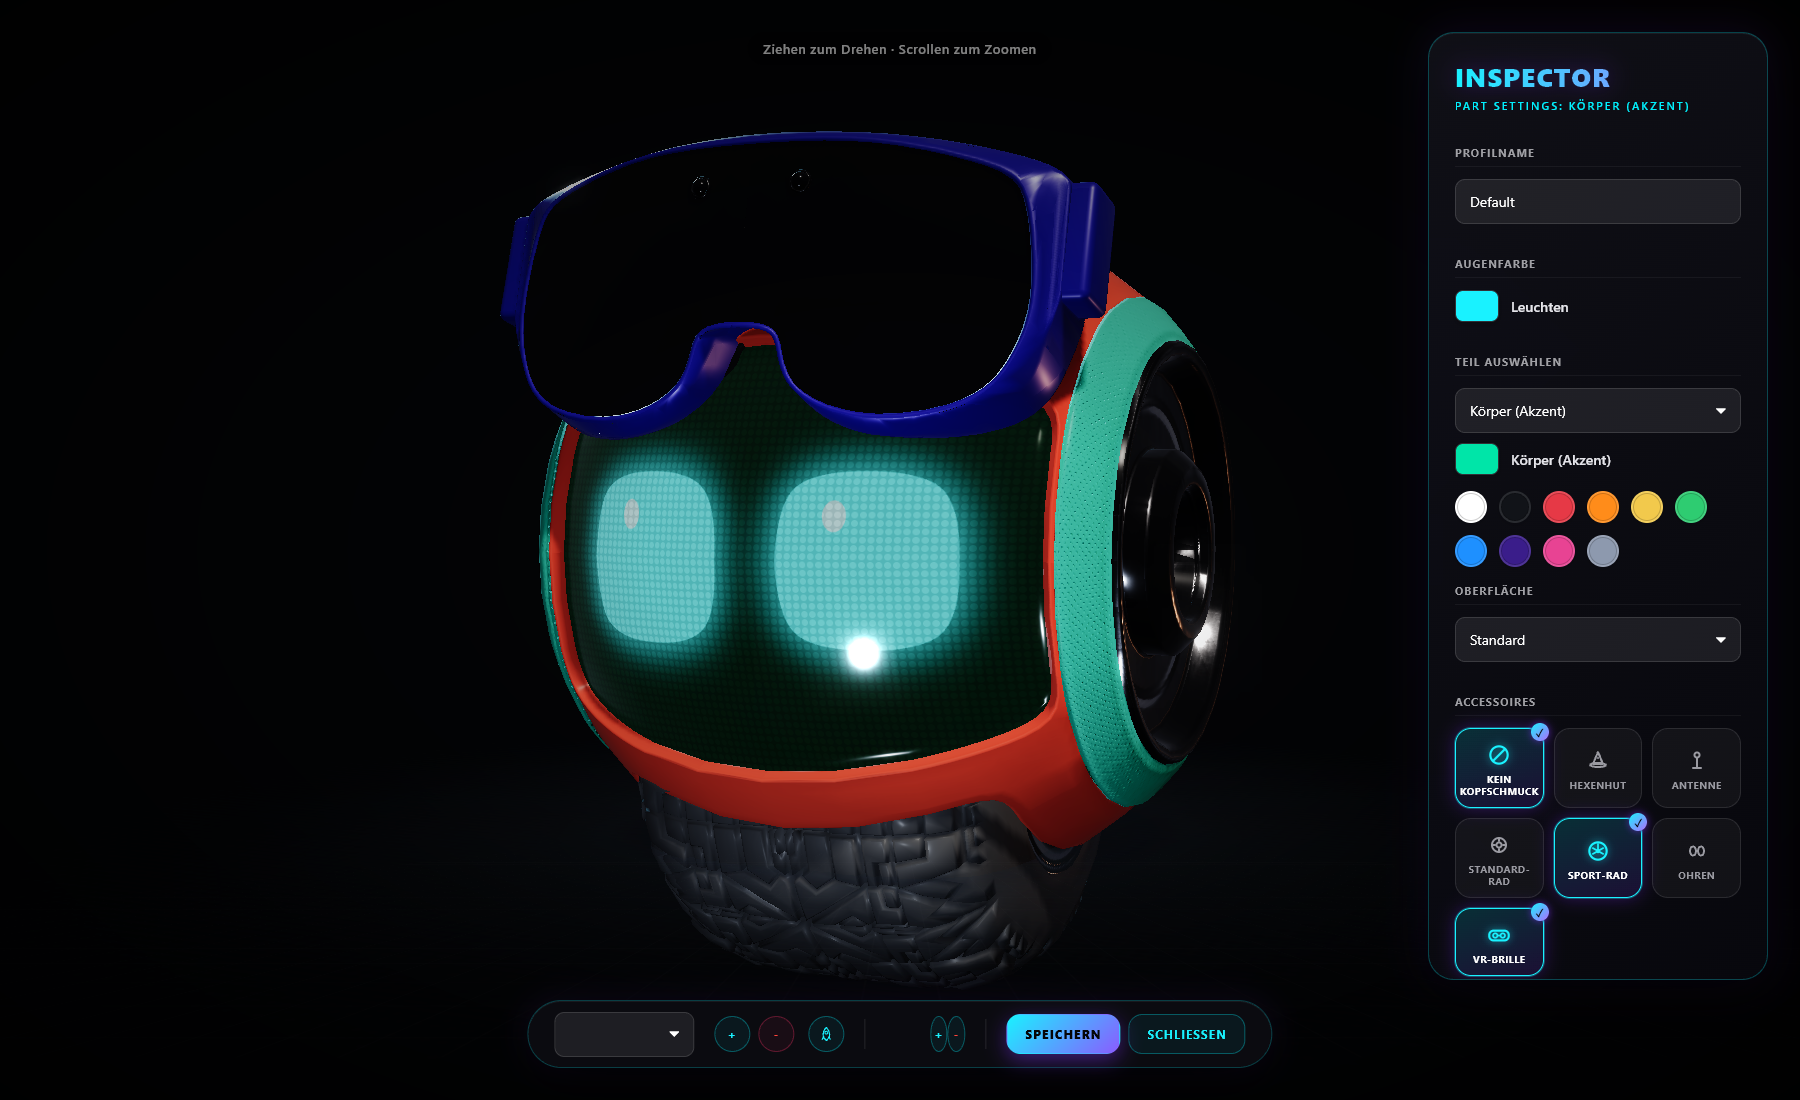
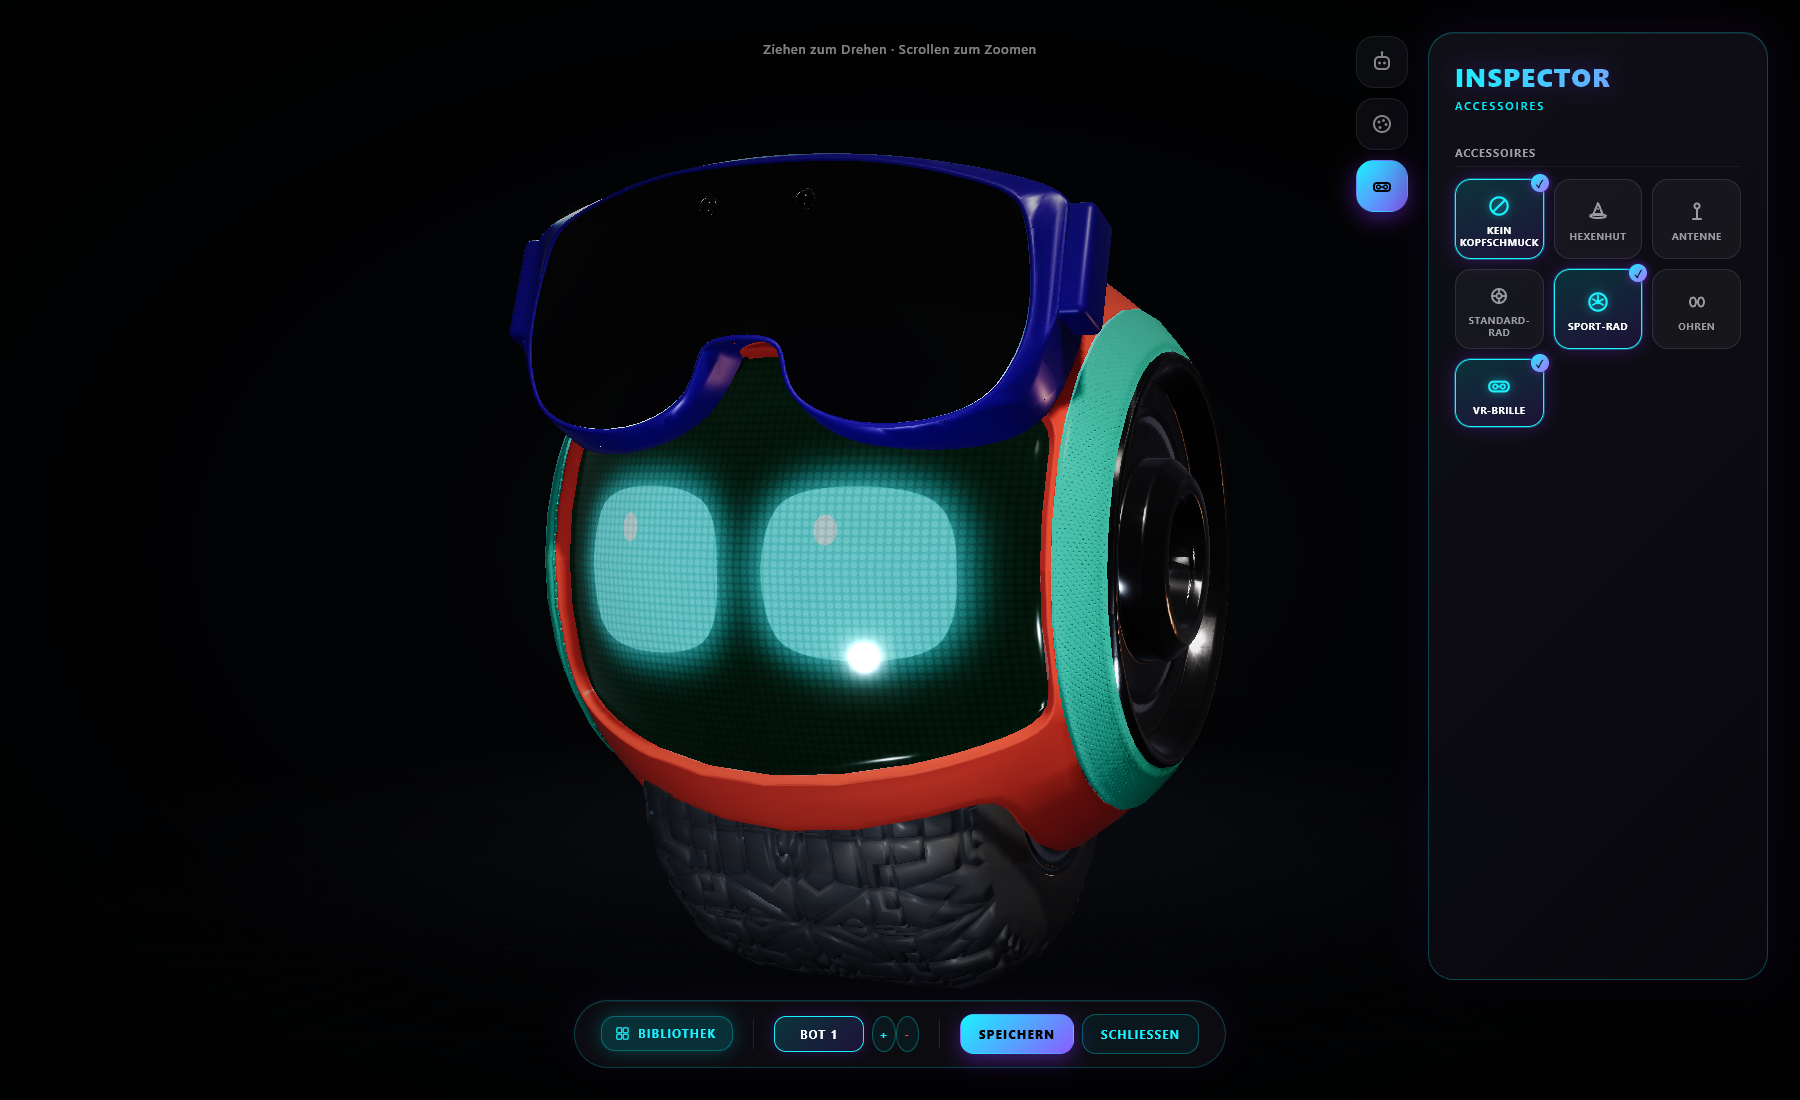
Studio: real character-creator structure — category rail + visual library
Structural rework matching the reference (AAA character creator: left
icon-tab rail, visual save-slot grid, minimal top chrome):

- Left category rail with 3 icon tabs (Bot & Engine / Farbe & Material /
  Accessoires) replacing the old implicit "click the model vs click the
  background" as the only way to reach color/accessory controls. Split
  the old single insp-part div into #insp-color and #insp-accessories so
  each rail tab shows exactly one focused panel.
- Real library: the profile <select>+/- is now a hidden data model only;
  the visible UI is a popover grid of color-swatched cards (one per saved
  look), each with hover-revealed spawn/delete actions and click-to-load.
  Required a small C# change (PushInit now sends "Name|#bodyHex" per
  profile instead of a bare name) so cards can show a real color preview
  instead of plain text — packed into the existing profileList string
  parameter rather than adding a new positional argument.
- Carried the tour-correctness fix through this restructure: generalized
  switchInspectorPanel to 3 panels, updated the tour's step definitions
  and spotlight-target panels accordingly, verified all 5 steps end-to-end
  with zero console errors.
- Re-synced Anleitung text and all three Studio screenshots to describe
  and show the new rail + library.

diff --git a/anleitung.html b/anleitung.html
@@ -206,15 +206,16 @@
             <h2><span class="n">4</span>OptiBot Studio</h2>
             <p>Das Studio ist deine Tuning-Werkstatt. Öffne es per <b>Doppelklick auf das Taskleisten-Icon</b> oder über das Menü („OptiBot Studio öffnen").</p>
             <ul>
-                <li><b>Teile lackieren:</b> Klicke ein Körperteil direkt am 3D-Modell an (oder wähle es im Panel) und such dir eine Farbe aus — Änderungen erscheinen sofort auf dem echten Bot.</li>
-                <li><b>Accessoires:</b> Ziehe Hexenhut, Antenne, Ohren, VR-Brille oder ein anderes Rad einfach per Drag &amp; Drop auf den Bot.</li>
+                <li><b>Kategorie-Leiste:</b> Die drei Symbole links am Panel wechseln zwischen Bot &amp; Engine, Farbe &amp; Material und Accessoires — wie bei einem echten Charakter-Editor.</li>
+                <li><b>Teile lackieren:</b> Klicke ein Körperteil direkt am 3D-Modell an (oder wähle es im Farbe-Tab) und such dir eine Farbe aus — Änderungen erscheinen sofort auf dem echten Bot.</li>
+                <li><b>Accessoires:</b> Ziehe Hexenhut, Antenne, Ohren, VR-Brille oder ein anderes Rad einfach per Drag &amp; Drop auf den Bot, oder klicke die Kachel an.</li>
                 <li><b>Materialien:</b> Von Chrome über Carbon bis Gloss — echte Oberflächen-Presets mit realistischen Reflexionen.</li>
                 <li><b>Umgebungslicht:</b> Sunset, Night, Neon, Cinematic oder Studio — bestimmt, wie sich Licht auf dem Bot spiegelt.</li>
             </ul>
             <div class="doc-img-row">
                 <img class="doc-img" src="anleitung_studio1.png" alt="OptiBot Studio: Übersicht mit Inspector-Panel">
                 <img class="doc-img" src="anleitung_studio2.png" alt="OptiBot Studio: Bot mit Accessoires und Farben">
-                <img class="doc-img" src="anleitung_studio3.png" alt="OptiBot Studio: Farbauswahl und Oberflächen-Presets">
+                <img class="doc-img" src="anleitung_studio3.png" alt="OptiBot Studio: Bibliothek mit gespeicherten Looks">
             </div>
         </section>
 
@@ -224,7 +225,7 @@
             <ul>
                 <li>Im Studio wählst du oben über die <b>Bot-Tabs</b> aus, welchen Bot du gerade bearbeitest.</li>
                 <li>Mit <span class="kbd">+ Bot</span> / <span class="kbd">− Bot</span> (im Studio oder Taskleisten-Menü) spawnst und entfernst du Bots.</li>
-                <li><b>Bibliothek:</b> Gespeicherte Looks (Profile-Dropdown) lassen sich per <span class="kbd">🚀</span> direkt als neuer Bot auf den Desktop spawnen — praktisch, wenn du einen Look mehrfach verwenden willst.</li>
+                <li><b>Bibliothek:</b> Über den Bibliothek-Button im Dock öffnest du eine Kartenübersicht all deiner gespeicherten Looks (mit Farbvorschau). Klick auf eine Karte lädt den Look zum Bearbeiten, das Raketen-Symbol spawnt ihn direkt als neuen Bot, das Papierkorb-Symbol löscht ihn.</li>
                 <li>Jeder Bot hat eine <b>Rolle</b> (Auto, Work oder Play): Er reagiert sichtbar, wenn die Smart Engine „seinen" Modus aktiviert — so siehst du auf einen Blick, was dein System gerade macht.</li>
             </ul>
             <img class="doc-img" src="anleitung_multibot.png" alt="Bis zu fünf OptiBots gleichzeitig, jeder mit eigenem Look">